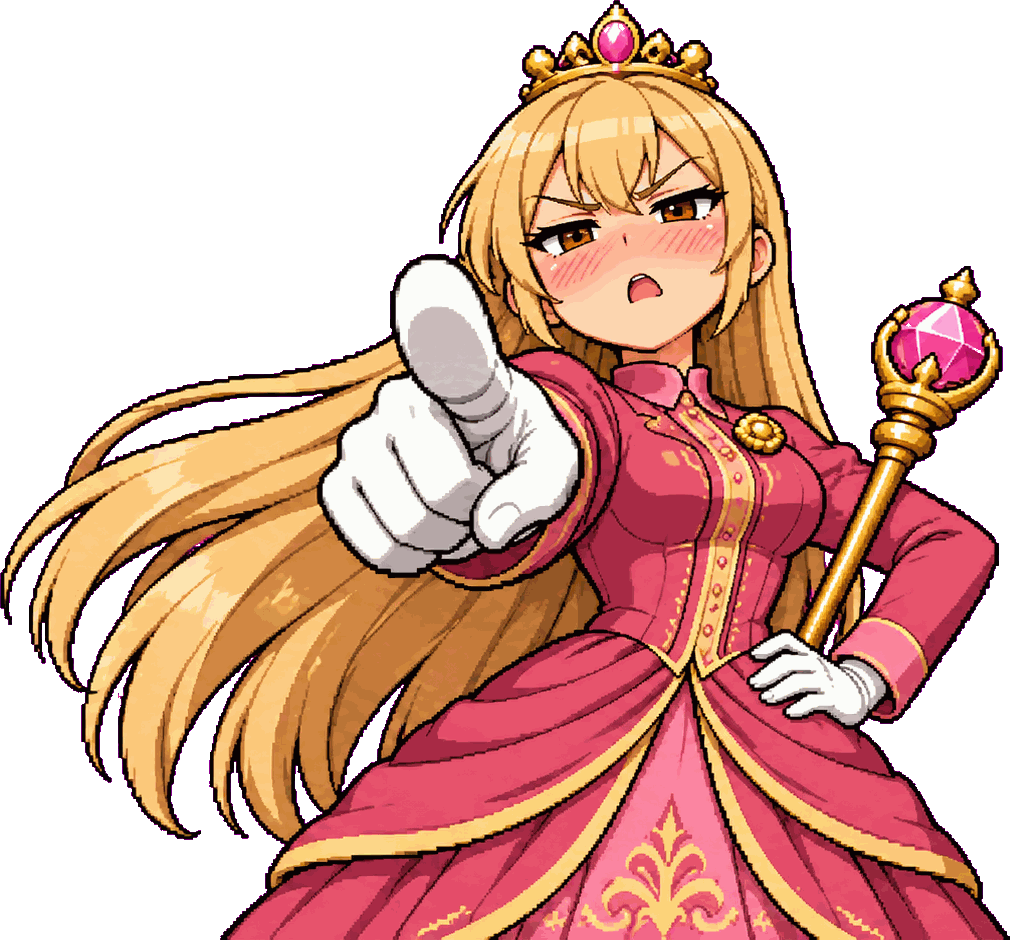
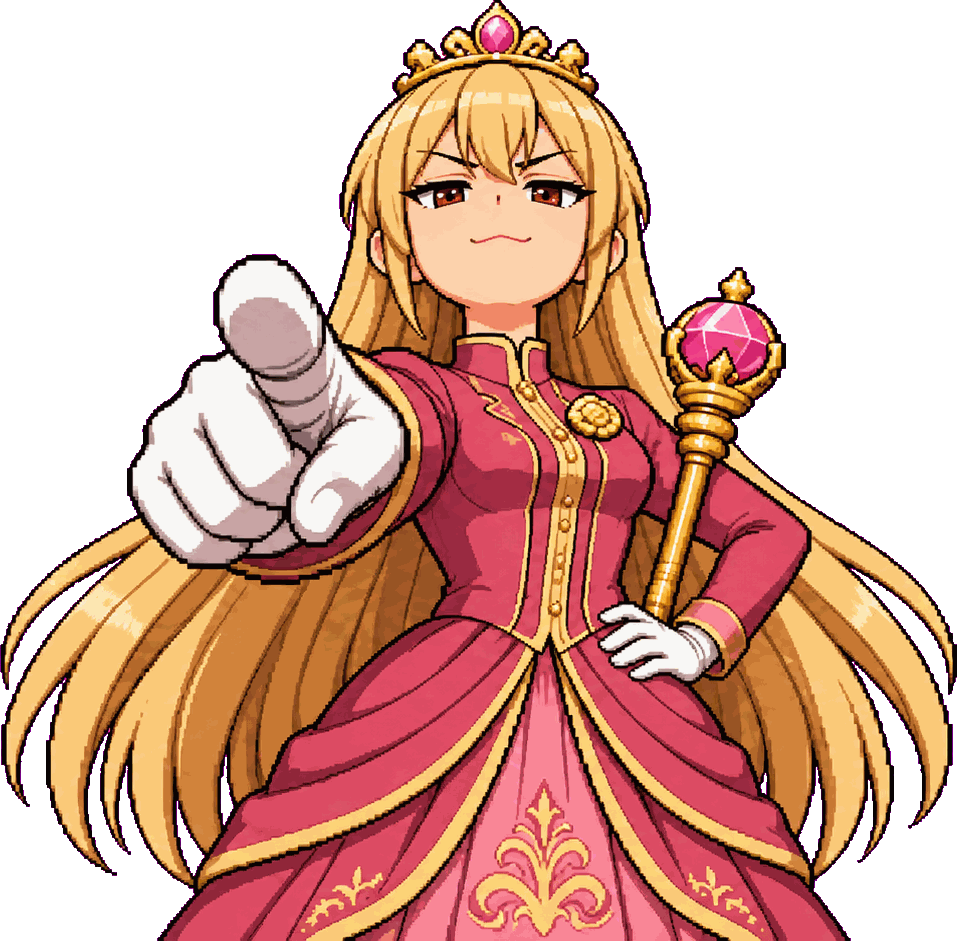
動作圖第三輪：阿哲換姿勢、Vivi 女王氣場、茶茶、學姊、鼠仙女加兩隻老鼠

diff --git a/js/game.js b/js/game.js
@@ -263,15 +263,16 @@ function playSuper(r, t0) { const id = r.id, D = 4.4; S.film = { t0, id, dur: D 
 // 上下兩條黑邊滑進來夾住戰場，成員的立繪從左右撞進來、比兩條黑邊中間還高，所以頭蓋過上邊、身體蓋過下邊；黑邊在定格期間還會慢慢往中間收
 let uniteFilm = null;
 // 動作圖（衝向鏡頭、看著螢幕；使用者 11/21：「我想要他們做動作看著螢幕」）：art/cutin/act_<代號>.png，有圖的人用動作圖，沒有的用半身像。背景載入
-const ACT_ART = ['kui', 'jie', 'kevin', 'mi', 'vivi', 'yan', 'heilun', 'cha', 'qiang', 'senpai', 'wu', 'you', 'fairy', 'xu', 'zhe', 'an']; A.act = {}; for (const id of ACT_ART) loadImg(`art/cutin/act_${id}.png`).then(im => { if (im) A.act[id] = im; });
+const ACT_ART = ['kui', 'jie', 'kevin', 'mi', 'vivi', 'yan', 'heilun', 'cha', 'qiang', 'senpai', 'wu', 'you', 'fairy', 'xu', 'zhe', 'an']; // ACT_LIFT：全身都畫出來的人（飄在空中的鼠仙女）往上提，腳才不會被畫面下緣切掉。ACT_TOP：畫在最上面的人（鼠仙女旁邊跳舞的兩隻老鼠不能被隊友擋住）
+const ACT_LIFT = { fairy: 78 }, ACT_TOP = ['fairy']; A.act = {}; for (const id of ACT_ART) loadImg(`art/cutin/act_${id}.png`).then(im => { if (im) A.act[id] = im; });
 function drawUniteFilm() { const F = uniteFilm; if (!F) return; const el = now - F.t0; if (el < 0) return; if (el > F.dur) { uniteFilm = null; return; }
   const n = F.ids.length, out = sat((F.dur - el) / .22), k = easeOut(sat(el / .16)) * easeOut(out), BAR = (150 + 26 * sat(el / F.dur)) * k, bh0 = n > 2 ? 980 : 1090, xs = n > 2 ? [.2, .52, .82] : [.29, .74], xa = n > 2 ? [.18, .5, .82] : [.26, .675];
   c.save(); c.fillStyle = `rgba(8,5,4,${.42 * k})`; c.fillRect(0, BAR, W, H - BAR * 2);
   c.save(); c.beginPath(); c.rect(0, BAR, W, H - BAR * 2); c.clip(); c.globalAlpha = .5 * k; c.fillStyle = '#fff3c8'; for (let i = 0; i < 26; i++) { const ly = BAR + 20 + ((i * 97) % Math.max(1, H - BAR * 2 - 40)), lw = 180 + (i * 53) % 420, lx = W + lw - ((el * (2600 + (i * 37) % 900) + i * 311) % (W + lw * 2)); c.fillRect(lx, ly, lw, i % 3 ? 3 : 6); } c.restore();
   if (el < .14) { c.fillStyle = `rgba(255,248,214,${.8 * (1 - el / .14)})`; c.fillRect(0, 0, W, H); }
   c.fillStyle = '#000'; c.fillRect(0, 0, W, BAR); c.fillRect(0, H - BAR, W, BAR); c.fillStyle = '#d8b25a'; c.fillRect(0, BAR - 5, W, 5); c.fillRect(0, H - BAR, W, 5);
-  F.ids.map((id, i) => [id, i]).reverse().forEach(([id, i]) => { const sup = R.isSuper(state, id), isAct = !sup && !!A.act[id], im = (sup && A.bust['s_' + id]) || (isAct && A.act[id]) || A.bust[id]; if (!im) return; const bh = isAct ? Math.min(n > 2 ? 900 : 1010, 1300 * im.height / im.width) : bh0, side = i % 2 ? 1 : -1, te = el - .04 - i * .07, kin = te <= 0 ? 0 : back(sat(te / .22)), w = bh * im.width / im.height, cx = W * (isAct ? xa : xs)[i] + side * (1 - kin) * 900 + side * (1 - out) * 1200 + side * -14 * sat(el / F.dur), top = H + 34 - bh + (n > 2 ? 0 : i * 26); if (te <= 0) return;
-    c.save(); c.globalAlpha = sat(te / .1); c.fillStyle = 'rgba(0,0,0,.45)'; c.beginPath(); c.moveTo(cx - w * .34, H - BAR); c.lineTo(cx + w * .1, BAR); c.lineTo(cx + w * .42, BAR); c.lineTo(cx - w * .02, H - BAR); c.closePath(); c.fill(); c.fillStyle = DEFS[id].color; c.globalAlpha *= .55; c.beginPath(); c.moveTo(cx - w * .3, H - BAR); c.lineTo(cx + w * .14, BAR); c.lineTo(cx + w * .36, BAR); c.lineTo(cx - w * .08, H - BAR); c.closePath(); c.fill(); c.globalAlpha = sat(te / .1); pix(im, cx - w / 2, top, w, bh); c.restore(); });
+  for (const pass of [0, 1]) F.ids.map((id, i) => [id, i]).reverse().sort((a, b) => ACT_TOP.includes(a[0]) - ACT_TOP.includes(b[0])).forEach(([id, i]) => { const sup = R.isSuper(state, id), isAct = !sup && !!A.act[id], im = (sup && A.bust['s_' + id]) || (isAct && A.act[id]) || A.bust[id]; if (!im) return; const bh = isAct ? Math.min(n > 2 ? 900 : 1010, 1300 * im.height / im.width) : bh0, side = i % 2 ? 1 : -1, te = el - .04 - i * .07, kin = te <= 0 ? 0 : back(sat(te / .22)), w = bh * im.width / im.height, cx = W * (isAct ? xa : xs)[i] + side * (1 - kin) * 900 + side * (1 - out) * 1200 + side * -14 * sat(el / F.dur), top = H + 34 - bh + (n > 2 ? 0 : i * 26) - (isAct ? ACT_LIFT[id] || 0 : 0); if (te <= 0) return;      // ACT_LIFT：全身都畫出來的人（飄在空中的鼠仙女）往上提，腳才不會被畫面下緣切掉
+    c.save(); c.globalAlpha = sat(te / .1); if (!pass) { c.fillStyle = 'rgba(0,0,0,.45)'; c.beginPath(); c.moveTo(cx - w * .34, H - BAR); c.lineTo(cx + w * .1, BAR); c.lineTo(cx + w * .42, BAR); c.lineTo(cx - w * .02, H - BAR); c.closePath(); c.fill(); c.fillStyle = DEFS[id].color; c.globalAlpha *= .55; c.beginPath(); c.moveTo(cx - w * .3, H - BAR); c.lineTo(cx + w * .14, BAR); c.lineTo(cx + w * .36, BAR); c.lineTo(cx - w * .08, H - BAR); c.closePath(); c.fill(); } else pix(im, cx - w / 2, top, w, bh); c.restore(); });
   if (el > .3) { const u = easeOut(sat((el - .3) / .2)) * out; c.globalAlpha = u; text('合體技', 70 - (1 - u) * 60, H - BAR + 58, { px: 34, w: 900, col: '#d8b25a', ls: 8, stroke: 'rgba(0,0,0,.9)', sw: 6 }); text(F.name, 70 - (1 - u) * 60, H - BAR + 128, { px: 72, w: 900, fam: SERIF, col: '#ffe27a', ls: 6, stroke: 'rgba(40,16,0,.95)', sw: 12 }); text(F.ids.map(id => DEFS[id].name).join('　×　'), W - 70 + (1 - u) * 60, BAR - 44, { px: 40, w: 900, fam: SERIF, align: 'right', col: '#fff3c8', ls: 4, stroke: 'rgba(0,0,0,.9)', sw: 8 }); }
   c.restore(); }
 function drawSuperFilm() { const F = S.film; if (!F) return; const el = now - F.t0; if (el < 0) return; if (el > F.dur) { S.film = null; return; }
